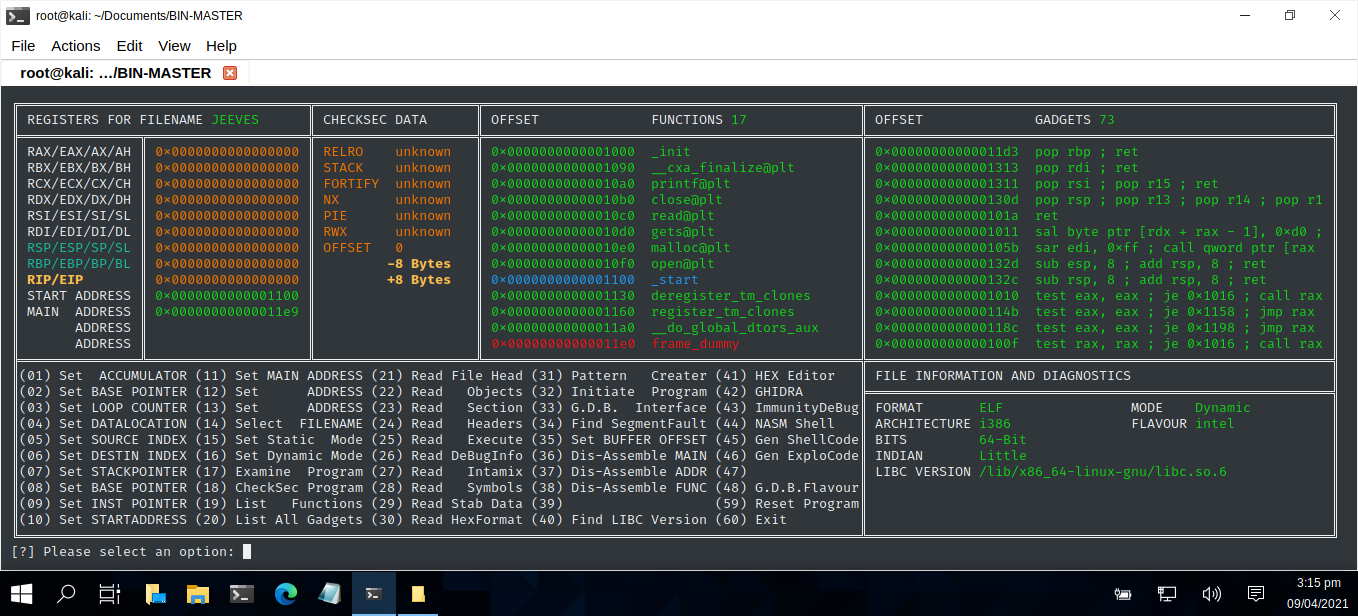
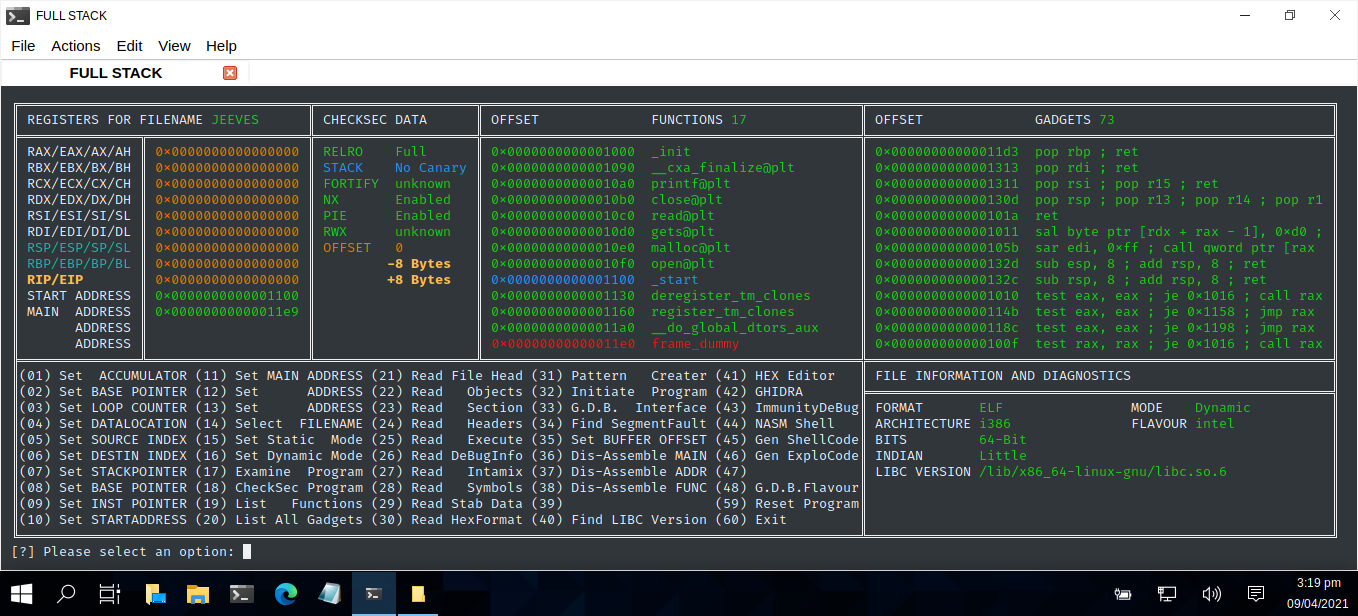
Full Stack

Changed region(s): [[0.2165, 0.2468, 0.3402, 0.401], [0.0, 0.0925, 0.1546, 0.1542], [0.0309, 0.0, 0.1856, 0.0308]]

diff --git a/BinMaster.py b/BinMaster.py
@@ -471,7 +471,7 @@ localDir = "BINMASTER"						# LOCAL DIRECTORYS
 # Modified: N/A                                                               
 # -------------------------------------------------------------------------------------
 
-command("xdotool key Alt+Shift+S; xdotool type 'FULL STACK; xdotool key Return")
+command("xdotool key Alt+Shift+S; xdotool type 'FULL STACK'; xdotool key Return")
 dispBanner("BINARY MASTER",1)
 print(colored("\t\tM A S T E R  C R A F T S M A N  E D I T I O N",colour7,attrs=['bold']))
 print(colored("\n\n[*] Booting, please wait...", colour3))

diff --git a/README.md b/README.md
@@ -21,7 +21,7 @@ Usage: python3 BinMaster.py
 
 | LANGUAGE  | FILENAME     | MD5 Hash                         | DESCRIPTION    | VERSION    |
 |------     |------        | -------                          | ------         | ----       |
-| python3   | BinMaster.py | cd0e391aac2a8c0ce651c044be36b91d | Command Centre | Full Stack |
+| python3   | BinMaster.py | 7981bb39e1d5b0c722691212e235da7e | Command Centre | Full Stack |
 
 
 A python script file to forensically examine binary files for buffer-overflows.
